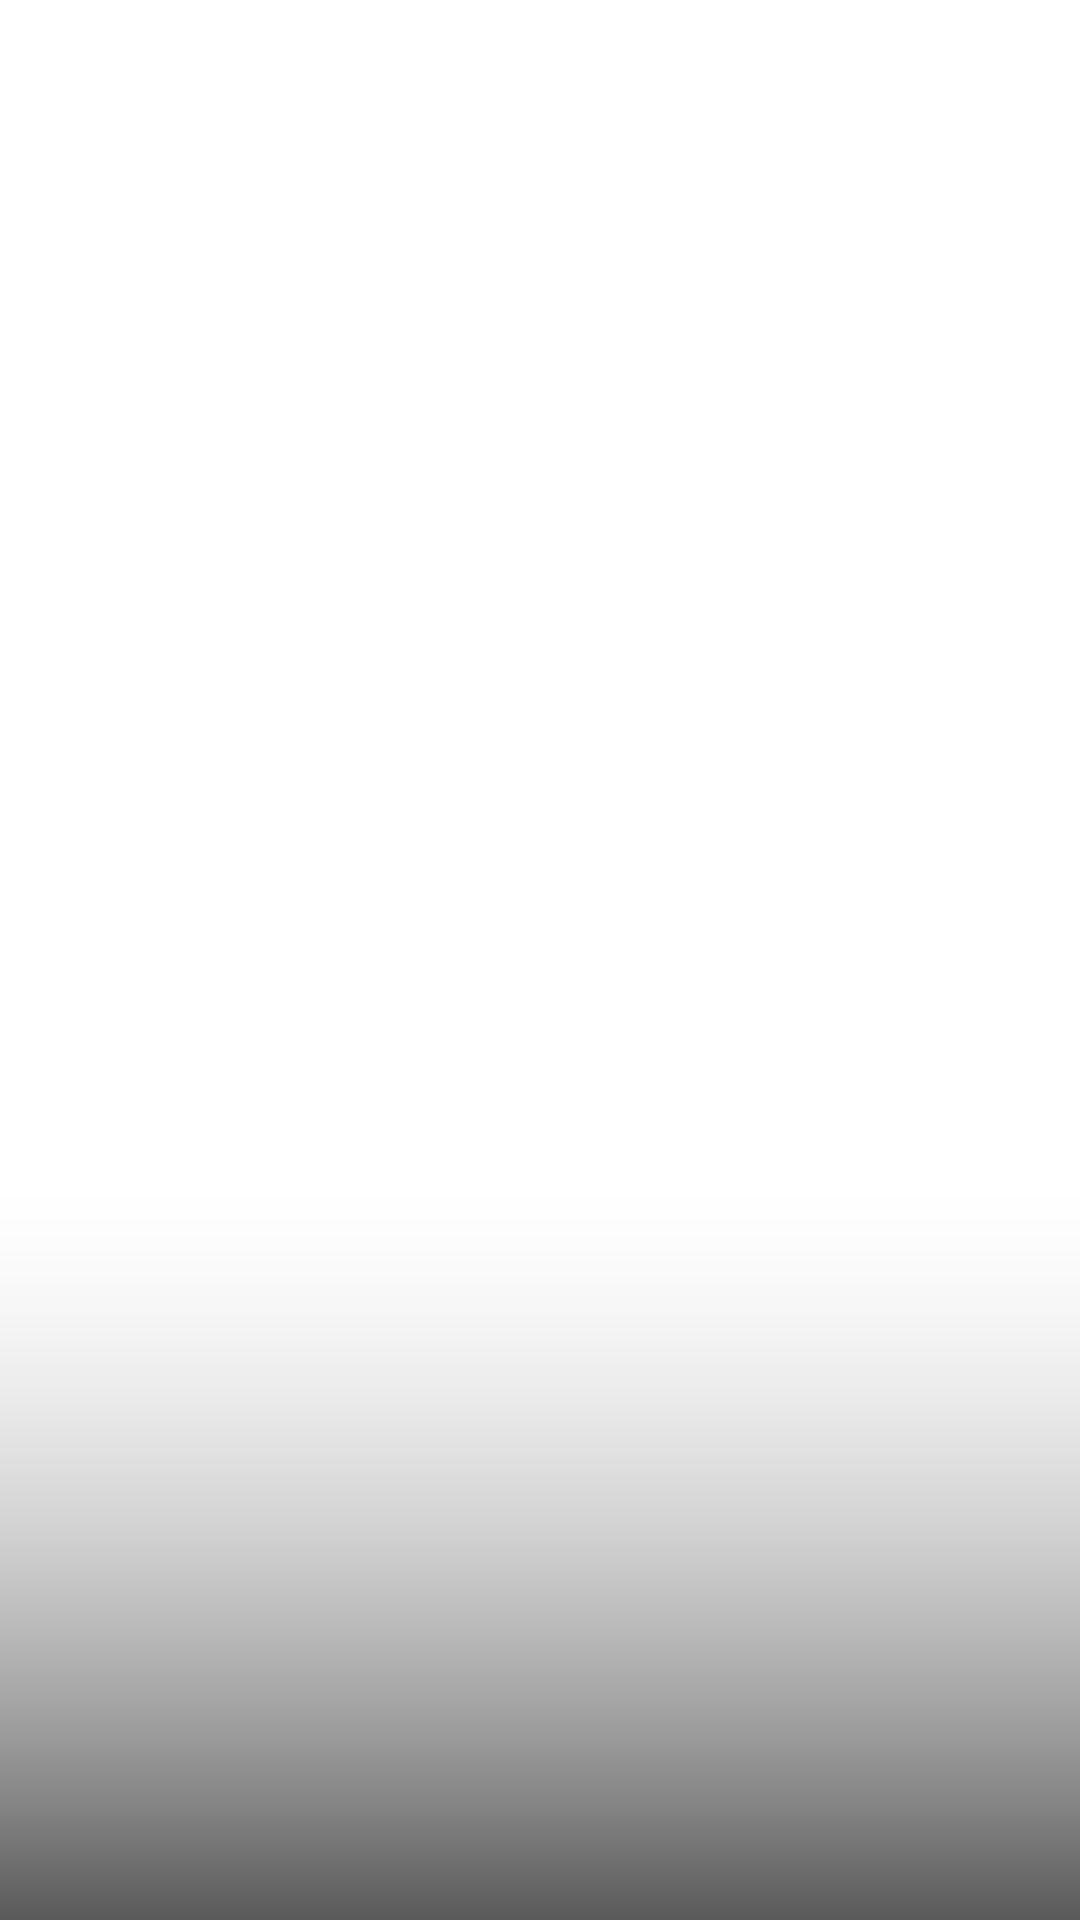
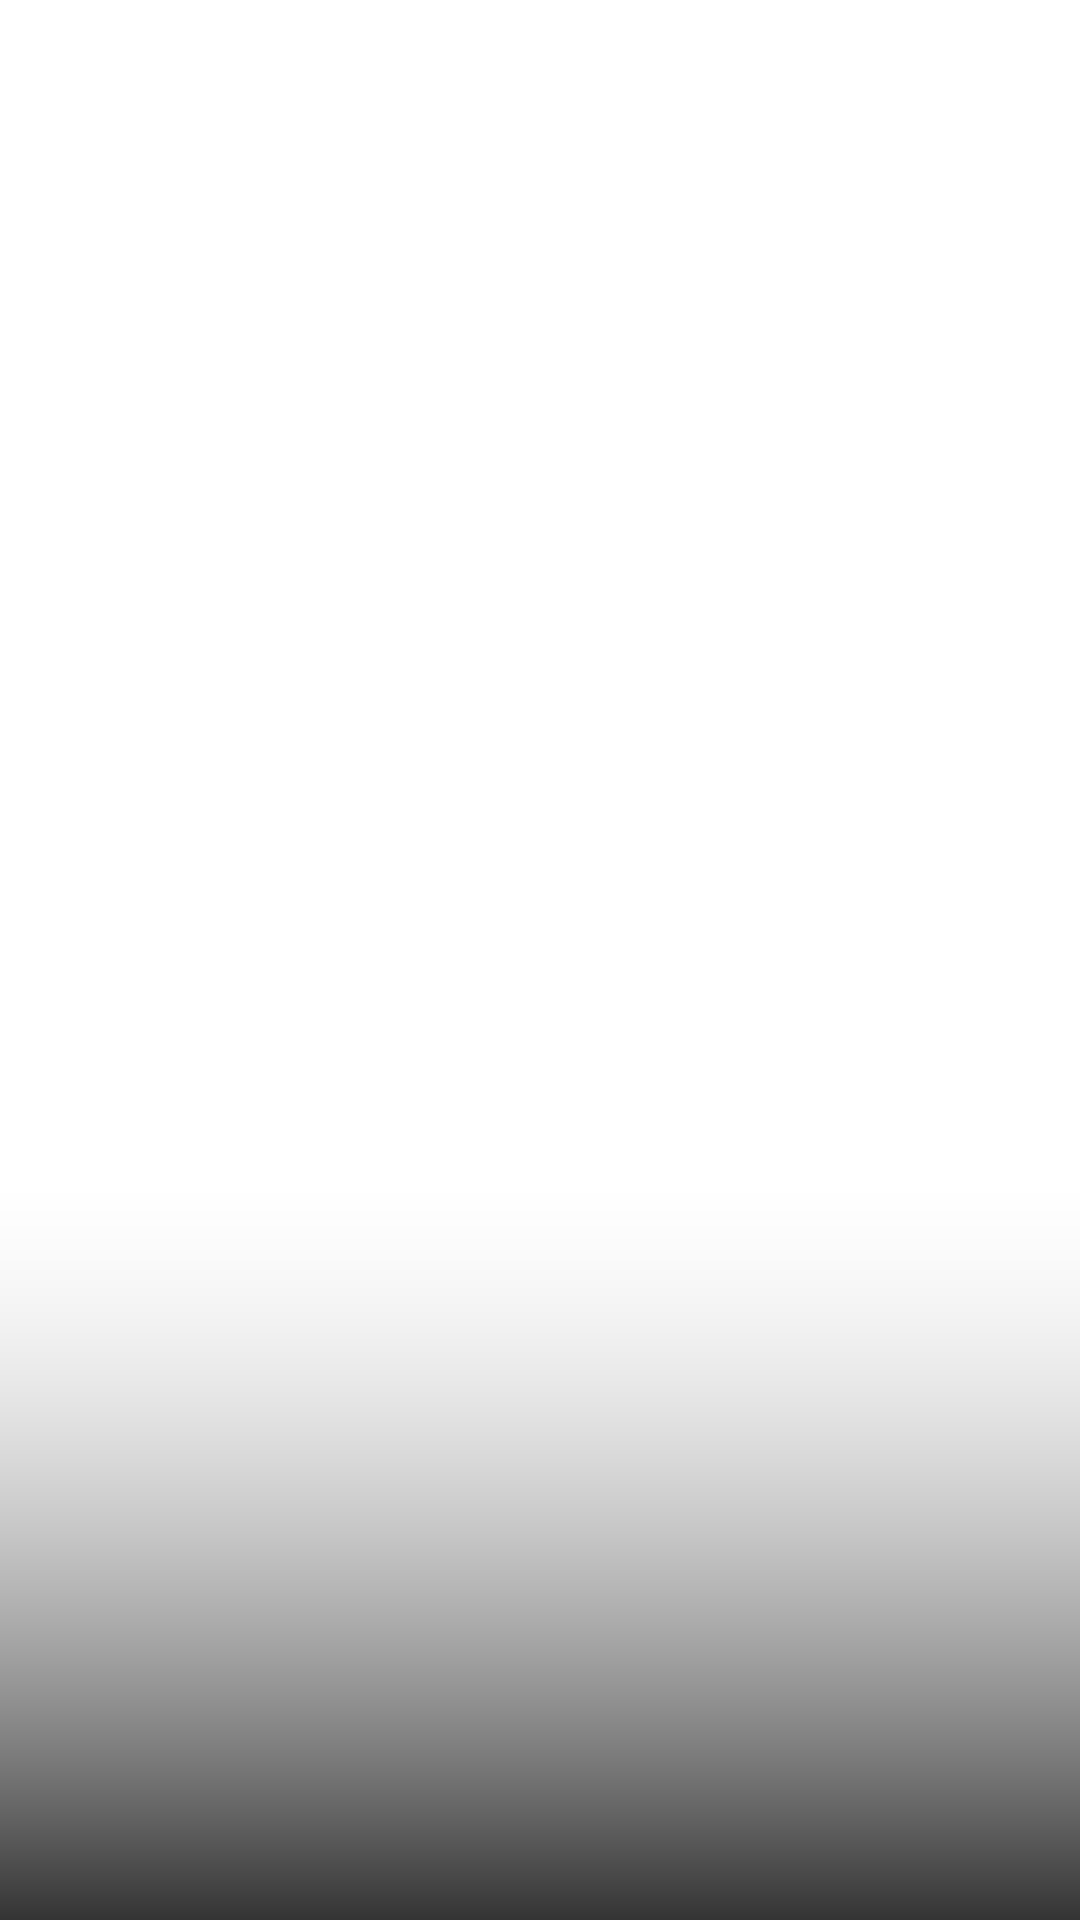
fix: lower subtitle position by 10px, make gradient darker (80% opacity)

Changed region(s): [[0.0, 0.9062, 1.0, 1.0]]

diff --git a/frontend/src/components/SegmentsList.jsx b/frontend/src/components/SegmentsList.jsx
@@ -21,7 +21,7 @@ const SUBTITLE_POSITIONS = [
     id: 'lower_center',
     label: 'Нижняя треть',
     description: 'Классическая позиция ближе к нижней трети',
-    coords: { x: 540, y: 1270 },
+    coords: { x: 540, y: 1280 },
   },
   {
     id: 'bottom_center',
